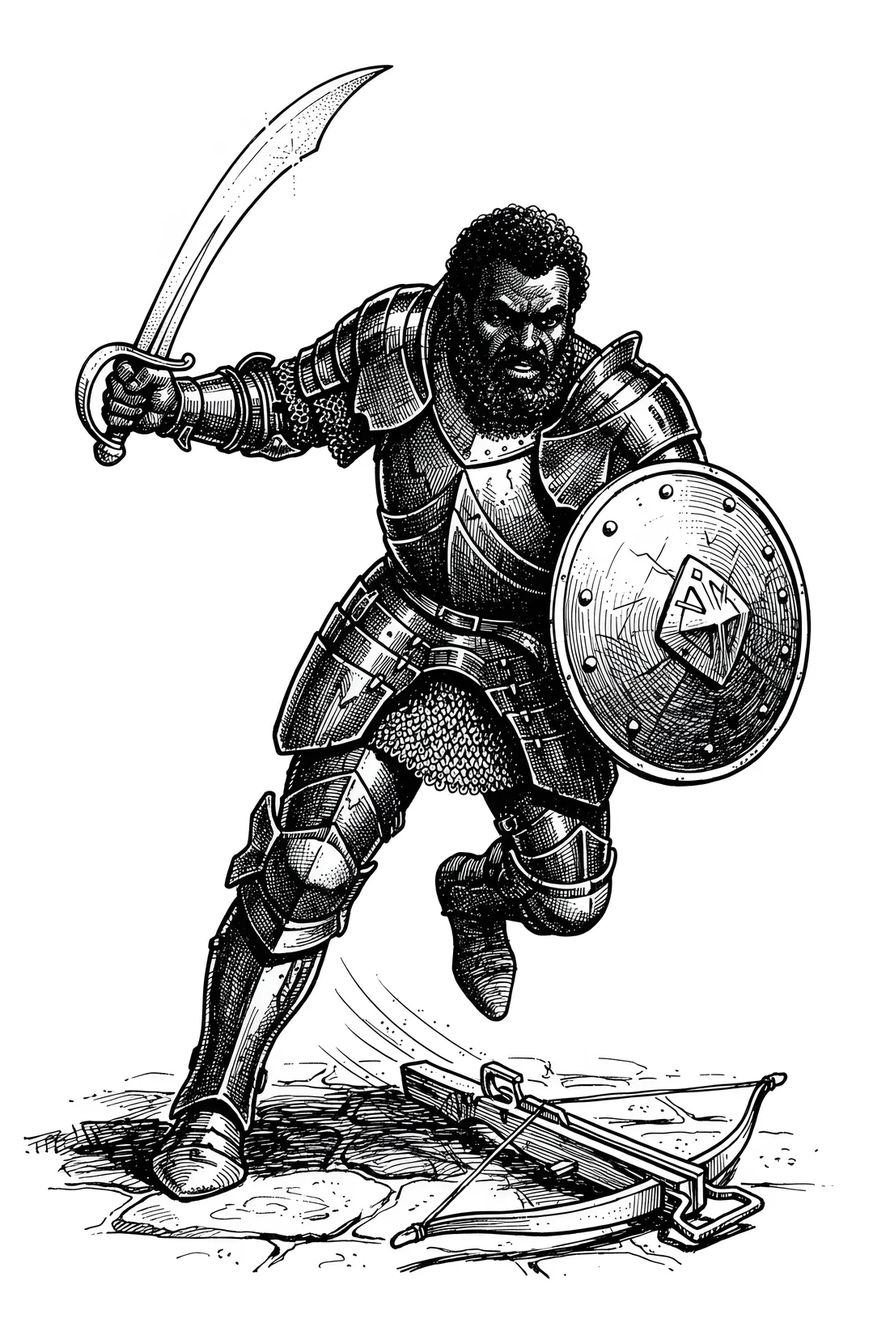
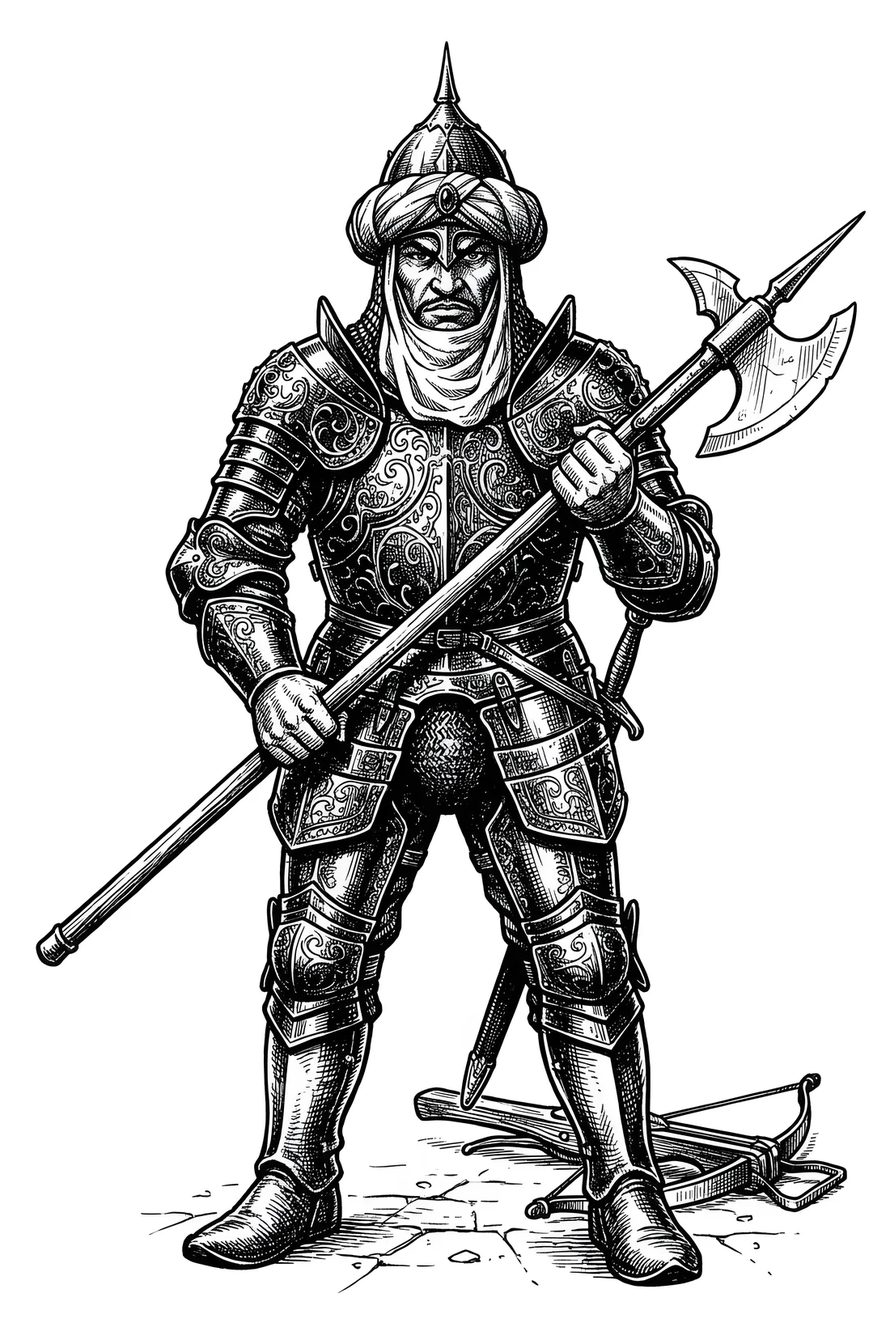
Book 4's guards: new pictures; proposals from the books only, sheet quotes only what describes
- Book 4's tunnel guards and the six bridge guards: the owner's choices from the proposal sheet
  (new AI-made pictures and Book 5's tower guard for the Tunnel Guard Leader), upscaled, pinned and
  credited; foe-about entries for Tunnel Guards 1 and 3 and Guards 1-6.
- Step 7 proposals take the books' own pictures only, never the web or Wikimedia Commons; the
  prompt's reference pictures are the picture now, every candidate, then the agent's pick (ADR 0008).
- The proposal sheet quotes only sections where the enemy is fought or described; the check refuses
  a listed section with nothing marked and a phrase of only its name.

diff --git a/tools/admin/prompts.js b/tools/admin/prompts.js
@@ -15,9 +15,9 @@ const DONE = (b, step) => `When the step is finished, run \`python tools/book_st
 // proposal carries for a generated picture, and the abouts
 // gather does the looking up (each run used to rediscover the files at great cost), so the prompt need not
 // spell out where to search
-const PIC_ORDER = (b) => `Follow docs/reference/items.md, "Fight pictures", for the order (the fight's own picture; this book's same creature; another book's; a stand-in; ADR 0008); this brief covers the rest, so no need to read that page through. Start each enemy with \`python tools/plates_proposals.py gather ${b.code} "<name>" --also=<its kind and what else the text calls it> --text\`: one call gives its fights, its picture now, what I settled before, the foe-about entries, illustrations and plates.json entries of its kind in every book (with what each shows), the sections naming it and those around its fights, with their text. Work from that; search further only for what it cannot know.`;
-const PIC_UNDRAWN = `A creature particular to Lone Wolf that no book pictures (a Nad-jaguz, not a bear or a guard): no stand-in and no web search; propose it with no candidates (I generate it from the sheet's prompt), name it in the report, and make its foe-about.json entry say what it looks like and the moment it is fought. A web stand-in is for ordinary things only: animals, plain humans, a door.`;
-const PIC_DESCRIBE = `Each entry also carries what I need to generate a picture: from the gathered sections (where it is first seen, fought, killed or opened, and what is compared to it; add --also words and gather again if the text calls it something else), write "sections"; "describe", in each, the exact phrases of the sentences that describe it; "refs", pictures of it or its surroundings, small ones too; and "prompt", every detail of its look (size, build, skin or material, head, eyes, mouth, limbs, gear, marks, setting) and the moment it is fought, in your own words. Never a colour: a fight picture is an ink drawing, so say it in tone and texture, even where the book names a colour. If the wiki refuses a fetch, go on without it.`;
+const PIC_ORDER = (b) => `Follow docs/reference/items.md, "Fight pictures", for the order (the fight's own picture; this book's same creature; another book's; ADR 0008). Candidates are the books' own pictures only: no web search, no Wikimedia Commons; this brief covers the rest, so no need to read that page through. Start each enemy with \`python tools/plates_proposals.py gather ${b.code} "<name>" --also=<its kind and what else the text calls it> --text\`: one call gives its fights, its picture now, what I settled before, the foe-about entries, illustrations and plates.json entries of its kind in every book (with what each shows), the sections naming it and those around its fights, with their text. Work from that; search further only for what it cannot know.`;
+const PIC_UNDRAWN = `An enemy that no book's picture shows well (a Nad-jaguz, or a bear no book draws): no stand-in from the web; propose it with no candidates (I generate it from the sheet's prompt), name it in the report, and make its foe-about.json entry say what it looks like and the moment it is fought.`;
+const PIC_DESCRIBE = `Each entry also carries what I need to generate a picture: from the gathered sections (where it is first seen, fought, killed or opened, and what is compared to it; add --also words and gather again if the text calls it something else), write "sections", only those that describe it or its fight (the sheet shows no other; a section that only names it, "the guard", is no context, "the burly guard" is); "describe", in each, the exact phrases of the sentences that describe it, with the describing words in them, never its bare name; "refs", a good pick of the books' pictures of it or its surroundings, small ones too, the one it shows now first (the sheet adds the candidates after it); and "prompt", every detail of its look (size, build, skin or material, head, eyes, mouth, limbs, gear, marks, setting) and the moment it is fought, in your own words. Never a colour: a fight picture is an ink drawing, so say it in tone and texture, even where the book names a colour. If the wiki refuses a fetch, go on without it.`;
 const PIC_ABOUT = `Every picture and every enemy should say what it is (ADR 0008), in our own words: each of the book's illustrations (small ones too) and each picture its fights use an "about" in about/ill-about.json (who or what, at which moment, as the book has it: read its section and those around it; else the wiki; a stand-in says what it stands for), and each kind of enemy an entry in about/foe-about.json under the book's code (what it is by the book, whatever its picture, where it is met and fought), which the picture sheet shows. These files are committed, so write in your own words, never the book's: python tools/about_check.py must pass (ADR 0042). Re-run python tools/ill_index.py; --missing lists the pictures without.`;
 
 export const PROMPTS = {
@@ -76,7 +76,7 @@ Task: docs/book-checklist.md step 7, a fight picture for every enemy.
 - Then judge every enemy of the book, not only the draft's: list the picture each kind shows now (its own, the importer's, a library entry, a draft) and check it against what the enemy is, by its section and its foe-about.json entry. A picture matches only if it shows that creature or that kind of foe: a Death Knight under a picture of some guard does not; Drakkarim take Drakkarim, whatever the name says ("Armoury Guards" who are Drakkarim); a picture "1 link before the fight" or a match by name can be the wrong creature. A fight's own picture, the one in its section, is drawn for that fight and wins all but very rarely: leave it unless it plainly shows something else. Replace what does not match; leave the draft field on draft picks you keep, as the sheet's Adjust is mine.
 - ${PIC_ORDER(b)}
 - ${PIC_UNDRAWN}
-- Show me candidates on the proposal sheet, not in chat (ADR 0008): for each enemy whose picture you change, choose or cannot settle, an entry in data/projectaon/${b.code}/plate-proposals.json (its format is in tools/plates_proposals.py's docstring): the enemy's name as book.js has it, your note on why, its candidate pictures (on disk by path, with a crop where one figure is wanted; on the web by thumbnail and page, downloading nothing) and your pick. The sheet shows what each enemy has now first, every candidate as it would look in a fight, its foe-about entry and the book's text, each section folded with the sentences that describe the enemy highlighted; I pick there. Look at each candidate yourself before proposing it.
+- Show me candidates on the proposal sheet, not in chat (ADR 0008): for each enemy whose picture you change, choose or cannot settle, an entry in data/projectaon/${b.code}/plate-proposals.json (its format is in tools/plates_proposals.py's docstring): the enemy's name as book.js has it, your note on why, its candidate pictures (the books' pictures on disk by path, with a crop where one figure is wanted) and your pick. The sheet shows what each enemy has now first, every candidate as it would look in a fight, its foe-about entry and the book's text, each section folded with the sentences that describe the enemy highlighted; I pick there. Look at each candidate yourself before proposing it.
 - ${PIC_DESCRIBE} Run python tools/plates_proposals.py check ${b.code} until it is clean (it also rejects a prompt that repeats the book's wording or names a colour), then tell me to open it: the dashboard, Book ${b.n}'s step 7, \"Open proposals\". I settle each row there (Use this, or Keep as is) and Finish the round, which moves the file to plate-proposals.done.json. Before proposing, read that file if it is there: do not propose again an enemy I settled (chosen or kept) unless its picture has since changed or I ask; a row I left open may come back. Start each round's file afresh, with only what waits for me.
 - ${PIC_ABOUT}
 - plates.json is read at play time, so no re-import is needed; the picture sheet shows every enemy as the player would. Open it inside the dashboard, http://localhost:8766/tools/admin/: Book ${b.n}'s row, step 7, "Open picture sheet" (fights.html at its own address shows nothing). Marking step 7 done is mine, after I have looked at that sheet: do not mark it.
@@ -124,7 +124,7 @@ Task: docs/book-checklist.md step 7, ${one
 - ${PIC_ORDER(b)}
 - ${PIC_UNDRAWN}
 - Open only the pictures you might propose (their "about" rules out the rest), and propose the few that show ${it} best, the best first; not the one ${it} shows now (the sheet puts that first). If none fits, say so in the note and leave the candidates empty.
-- Write ${one ? 'this enemy\'s row' : 'a row for each of them'} in data/projectaon/${b.code}/plate-proposals.json (format: tools/plates_proposals.py's docstring; ADR 0008): ${its} name as book.js has it, your note, candidates (on disk by path, with a crop where one figure is wanted; on the web by thumbnail and page, downloading nothing) and your pick. Keep any other rows; propose ${one ? 'it' : 'them'} even if I settled ${one ? 'it' : 'them'} before, since I ask. Do not change plates.json: my choice on the sheet does.
+- Write ${one ? 'this enemy\'s row' : 'a row for each of them'} in data/projectaon/${b.code}/plate-proposals.json (format: tools/plates_proposals.py's docstring; ADR 0008): ${its} name as book.js has it, your note, candidates (the books' pictures on disk by path, with a crop where one figure is wanted) and your pick. Keep any other rows; propose ${one ? 'it' : 'them'} even if I settled ${one ? 'it' : 'them'} before, since I ask. Do not change plates.json: my choice on the sheet does.
 - ${PIC_DESCRIBE}
 - If ${its} foe-about.json entry is missing or thin, write it in our own words (python tools/about_check.py must pass; ADR 0042), and an "about" for any picture you propose that has none (re-run python tools/ill_index.py).
 Run python tools/plates_proposals.py check ${b.code} until it is clean, then tell me to open it: the dashboard, Book ${b.n}'s step 7, "Open proposals" (or reload the sheet if it is open). Do not mark step 7.

diff --git a/tools/admin/proposals.html b/tools/admin/proposals.html
@@ -142,14 +142,15 @@ const about = (name) => {
   return mine[name] || Object.entries(mine).find(([n]) => kindOf(n) === kindOf(name))?.[1] || '';
 };
 
-/* What the book says: every section it is fought in, named in (or found by the agent's words), pointed to or described
-   in, in order, each folded to one line to open as needed. Inside, the sentences the agent marked as describing it
+/* What the book says: every section it is fought in or the agent marked as describing it or its fight, in order,
+   each folded to one line to open as needed; one that only names it is left out. Inside, the sentences the agent marked as describing it
    (`describe`: {section: [phrases]}) are highlighted whole, and its name is marked wherever it appears. */
 function bookText(e) {
   const re = finder(e), fought = new Set(fightsOf(e.name)), listed = new Set((e.sections || []).map(String));
   const desc = e.describe || {};
-  const hit = (t) => { re.lastIndex = 0; return re.test(t); };
-  const ids = Object.keys(book.sections).filter((id) => fought.has(id) || listed.has(id) || desc[id] || (book.sections[id].text || []).some(hit))
+  // only where it is fought or something describes it (the owner, 2026-10-28): a bare "guard" is no context
+  const said = (id) => (desc[id] || []).some((ph) => (book.sections[id].text || []).join(' ').toLowerCase().includes(ph.toLowerCase()));
+  const ids = Object.keys(book.sections).filter((id) => fought.has(id) || said(id))
     .sort((a, b) => (+a || 0) - (+b || 0));
   const mark = (t) => esc(t).replace(re, '<mark>$1</mark>');
   return ids.map((id) => {
@@ -162,10 +163,9 @@ function bookText(e) {
       for (const [a, b] of spans) out += mark(p.slice(at, a)) + `<span class="desc">${mark(p.slice(a, b))}</span>`, at = b;
       return `<p>${out + mark(p.slice(at))}</p>`;
     }).join('');
-    const why = [fought.has(id) && 'fought here', listed.has(id) && 'the agent points here', !fought.has(id) && !listed.has(id) && hit(ps.join(' ')) && 'named here']
-      .filter(Boolean).join(', ') || 'described here';
+    const why = [fought.has(id) && 'fought here', listed.has(id) && 'the agent points here'].filter(Boolean).join(', ') || 'described here';
     return `<details><summary><b>${esc(id)}</b> ${why}${found ? ` <span class="n">${found} description${found > 1 ? 's' : ''}</span>` : ''}</summary>${body}</details>`;
-  }).join('') || '<p class="far">The book does not name it in any section.</p>';
+  }).join('') || '<p class="far">No section describes it.</p>';
 }
 /* The [start, end) of each whole sentence of p holding one of the phrases, merged, in order. A sentence ends at
    . ! or ? (and a closing quote) followed by a space or the end. */
@@ -201,6 +201,9 @@ function nowOf(e) {  // what the player shows at its first fight
   const i = s.combat.enemies.findIndex((x) => x.name === e.name);
   return pickPlate(s.combat.enemies[i], book, plates, null, `${id}/${i}`);
 }
+/* The pictures to attach to the generator: what it shows now and every candidate on disk come first, as the
+   owner wants the proposals themselves followed too, then the agent's refs; each once. */
+const refsOf = (e, now) => [...new Set([now?.src, ...(e.candidates || []).map((c) => c.src), ...(e.refs || [])].filter(Boolean))];
 const ixAbout = (src) => index[src.replace(/^data\/projectaon\//, '')]?.about || index[src]?.about || '';
 
 const openRows = () => data.enemies.filter((e) => !e.decided).length;
@@ -239,8 +242,8 @@ function render() {
         <div class="tools"><button data-keep="${fi}" title="Settle this row with the picture it has now (or none, for later)">Keep as is</button></div></div>${cands}${aiCards(fi)}</div>
       <details class="prompt"${(e.candidates || []).length ? '' : ' open'}><summary>Prompt for an image generator</summary>
         <textarea readonly id="pr${fi}">${esc(promptOf(e))}</textarea>
-        <div class="row"><button data-copy="${fi}">Copy prompt</button><span>attach the references below and any candidates you want followed; paste the result here (Ctrl+V)</span></div>
-        ${(e.refs || []).length ? `<div class="refs">${e.refs.map((r) => `<a href="/${esc(r)}" target="_blank" rel="noopener" title="${esc(ixAbout(r))}"><img src="/${esc(r)}" alt="" loading="lazy">${esc(r.split('/').slice(-2).join('/'))}</a>`).join('')}</div>` : ''}</details>
+        <div class="row"><button data-copy="${fi}">Copy prompt</button><span>attach the references below (the picture now and the candidates first, then the agent's); paste the result here (Ctrl+V)</span></div>
+        ${refsOf(e, now).length ? `<div class="refs">${refsOf(e, now).map((r) => `<a href="/${esc(r)}" target="_blank" rel="noopener" title="${esc(ixAbout(r))}"><img src="/${esc(r)}" alt="" loading="lazy">${esc(r.split('/').slice(-2).join('/'))}</a>`).join('')}</div>` : ''}</details>
       </div><div class="text">${bookText(e)}</div></section>`;
   }).join('') || '<p class="note">No proposals for this book (data/projectaon/' + esc(code) + '/plate-proposals.json).</p>';
   ink();

diff --git a/tools/plates_proposals.py b/tools/plates_proposals.py
@@ -15,22 +15,26 @@ book's text from book.js itself, so the file holds names, ids, paths and our own
     {"made": "2026-10-26", "enemies": [
       {"name": "Iron Gate",                 the enemy's name exactly as in book.js
        "note": "...",                       why these candidates, in our own words
-       "sections": [251],                   sections to quote beside those it is fought or named in
+       "sections": [251],                   sections that describe it or its fight, beside those it is fought in
+                                            (the sheet shows only these; each needs a "describe" phrase)
        "words": ["portal", "door"],         words that find it in the text where its name is not used
        "describe": {"251": ["lead-lined iron"]},   in each section, phrases (exact, any case) of the sentences
-                                            that describe it: the sheet highlights each whole sentence
+                                            that describe it: the sheet highlights each whole sentence; a phrase
+                                            of its bare name ("the guard", not "the burly guard") is refused
        "candidates": [
          {"src": "assets/plates/x.jpg", "crop": [x, y, w, h], "why": "..."},   a picture on disk
          {"web": "<thumbnail address>", "page": "<its page>", "licence": "CC0", "why": "..."}
-       ],
+       ],                                   (a web candidate is read for older rows only: the agent proposes
+                                            the books' own pictures, never the web or Wikimedia Commons)
        "pick": 0,                           the agent's choice (index into candidates), or none
        "prompt": "...",                     every detail the book (and the wiki) gives of what it looks like,
                                             but no colour (an ink drawing: tone and texture instead),
                                             and the moment it is fought, for the sheet's image-generator prompt
                                             (our own words: it is sent to the generator; never 8 of the book's
                                             in a row)
-       "refs": ["data/projectaon/19wb/small6.png"]}   pictures worth attaching to the generator beside the
-                                            candidates (any that show it or its surroundings, small ones too)
+       "refs": ["data/projectaon/19wb/small6.png"]}   a good pick of the books' pictures to attach to the
+                                            generator, the one it shows now first (any that show it or its
+                                            surroundings, small ones too); the sheet adds the candidates
     ]}
 
 The owner settles each row on the sheet, which writes it here: "decided": {"how": "chosen", "src": ...,
@@ -128,6 +132,19 @@ def _book(code):
     return json.loads(js[js.index('|| {}, ') + 7:js.rindex(');')])[code]
 
 
+# words that say nothing of what an enemy looks like: "the guard", "two guards" are its name, not a description
+_FILLER = set('a an the his her its their this that these those some one two three four five six seven eight nine ten of and'.split())
+
+
+def _words(text):
+    return {w[:-1] if len(w) > 3 and w.endswith('s') else w for w in re.findall(r"[a-z]+", text.lower())} - _FILLER
+
+
+def _name_words(name, words):
+    """The enemy's name and the agent's `words` for it, as single words, so a phrase made of nothing else is caught."""
+    return _words(' '.join([name, *words]))
+
+
 def problems(code):
     """What would leave a card wrong or empty on the sheet, one line each; [] if none."""
     if not os.path.isfile(path(code)):
@@ -142,9 +159,14 @@ def problems(code):
         n = e.get('name', '')
         if n not in names:
             out.append(f'{n!r}: not an enemy of {code} (use the name exactly as book.js has it)')
+        fought = {sid for sid, x in book['sections'].items() if any(f['name'] == n for f in x.get('combat', {}).get('enemies', []))}
+        marked = {sid for sid, ph in (e.get('describe') or {}).items() if ph}
         for s in e.get('sections', []):
             if str(s) not in book['sections']:
                 out.append(f'{n}: no section {s}')
+            elif str(s) not in fought and str(s) not in marked:  # the sheet shows only what describes it (the owner)
+                out.append(f'{n}: section {s} is listed but nothing there is marked as describing it')
+        bare = _name_words(n, e.get('words', []))
         cands = e.get('candidates', [])
         for i, c in enumerate(cands):
             if 'src' in c:
@@ -163,6 +185,8 @@ def problems(code):
                 continue
             text = ' '.join(book['sections'][sid].get('text', [])).lower()
             out += [f'{n}: section {sid} has no {ph!r} to highlight' for ph in phrases if ph.lower() not in text]
+            out += [f"{n}: section {sid}'s {ph!r} is only its name: mark the words that describe it"
+                    for ph in phrases if ph.lower() in text and not _words(ph) - bare]
         for r in e.get('refs', []):
             if not os.path.isfile(os.path.join(ROOT, *str(r).split('/'))):
                 out.append(f'{n}: reference {r} is not on disk')

diff --git a/tests/py/test_plates_proposals.py b/tests/py/test_plates_proposals.py
@@ -47,7 +47,7 @@ def test_a_sound_file_has_no_problems(tree):
         {'name': 'Iron Gate', 'note': 'A door.', 'candidates': [
             {'src': 'assets/plates/gate.jpg', 'why': 'an iron door'},
             {'web': 'https://example.org/thumb.jpg', 'page': 'https://example.org/gate', 'licence': 'CC0'}], 'pick': 1},
-        {'name': 'Mire Toad', 'sections': [1], 'refs': [f'data/projectaon/{CODE}/ill1.png'], 'candidates': [{'src': f'data/projectaon/{CODE}/ill1.png', 'crop': [0, 0, .5, 1]}]},
+        {'name': 'Mire Toad', 'sections': [1], 'describe': {'1': ['a start']}, 'refs': [f'data/projectaon/{CODE}/ill1.png'], 'candidates': [{'src': f'data/projectaon/{CODE}/ill1.png', 'crop': [0, 0, .5, 1]}]},
     ])
     assert pp.problems(CODE) == []
 
@@ -95,6 +95,26 @@ def test_the_sentences_marked_as_describing_it_are_in_their_section(tree):
     tree.book()
     tree.proposals([{'name': 'Mire Toad', 'candidates': [], 'describe': {'2': ['a bog'], '1': ['a bog'], '7': ['x']}}])
     assert pp.problems(CODE) == ["Mire Toad: section 1 has no 'a bog' to highlight", 'Mire Toad: no section 7']
+
+
+def test_a_section_is_shown_only_for_what_describes_it_not_its_bare_name(tree):
+    """The sheet shows a section only where it describes the enemy or its fight (the owner, 2026-10-28): "the
+    burly guard" is context for a picture, "guard" alone is not. A section the agent lists must carry a phrase
+    that describes it, and a phrase that is only the enemy's name (or its `words`) describes nothing."""
+    tree.book()
+    tree.proposals([{'name': 'Mire Toad', 'words': ['frog'], 'candidates': [], 'sections': [1, 3],
+                     'describe': {'2': ['a bog'], '3': ['a gate'], '1': ['a start']}}])
+    assert pp.problems(CODE) == []
+    tree.proposals([{'name': 'Mire Toad', 'words': ['frog'], 'candidates': [], 'sections': [1, 3],
+                     'describe': {'2': ['A bog'], '1': ['A start']}}])
+    assert pp.problems(CODE) == ['Mire Toad: section 3 is listed but nothing there is marked as describing it']
+    secs = {'1': {'text': ['The toad waits.']}, '2': {'text': ['Two frogs and a huge warty toad.'], 'combat': {'enemies': [{'name': 'Mire Toad'}]}}}
+    tree.file(f'data/projectaon/{CODE}/book.js', '(window.LW = window.LW || {}).BOOKS = Object.assign(window.LW.BOOKS || {}, '
+              + json.dumps({CODE: {'id': CODE, 'sections': secs}}) + ');')
+    tree.proposals([{'name': 'Mire Toad', 'words': ['frog'], 'candidates': [],
+                     'describe': {'1': ['the toad'], '2': ['two frogs', 'huge warty toad']}}])
+    assert pp.problems(CODE) == ["Mire Toad: section 1's 'the toad' is only its name: mark the words that describe it",
+                                 "Mire Toad: section 2's 'two frogs' is only its name: mark the words that describe it"]
 
 
 def test_a_prompt_names_no_colour(tree, monkeypatch):

diff --git a/docs/reference/items.md b/docs/reference/items.md
@@ -378,12 +378,15 @@ settled before, the `foe-about.json` entries, index pictures and `plates.json` e
 (this book first, then the nearest), the sections naming it or the `--also` words and those leading into and out
 of its fights, and with `--text` those sections' text for the agent's reading; the step 7 prompts start from it. Each enemy there shows what it has now, every candidate inked as in a fight (a web one by its
 thumbnail, fetched only when chosen), the agent's note and pick, its `foe-about.json` entry, and the book's
-text where it is fought, named, pointed to or described (read from `book.js` in the page), each section
+text where it is fought or where the agent marked something describing it or its fight (the owner, 2026-10-28: a
+section that only names it, "the guard", is no context; "the burly guard" is; `check` refuses a listed section
+with no `describe` phrase, and a phrase of only its name or `words`) (read from `book.js` in the page), each section
 folded, with the sentences the agent marked as describing it (`describe`) highlighted whole; Use this saves the choice
 as the owner's picture, as the picture sheet's Stand-in... or By address... would. Each row also has a
 **prompt** for an image generator: the agent's fullest description of the enemy, gathered from every section
 that describes it (where it is first seen, fought, killed or opened, and what is compared to it) and the wiki,
-and the moment it is fought, with the pictures worth attaching shown beneath (`refs`). No prompt names a colour
+and the moment it is fought, with the pictures worth attaching shown beneath: the picture it shows now and every candidate on disk,
+then the agent's `refs` (`refsOf()` in `tools/admin/proposals.html`). No prompt names a colour
 (a fight picture is an ink drawing; the owner, 2026-10-26): `platePrompt()` takes every colour word out of the
 description it is given, foe-about entries included, and the check rejects one in the agent's `prompt`
 (the file's `prompt`, our own words, checked against the book's) in the picture sheet's style, asking it to
@@ -396,11 +399,13 @@ git-ignored `art/plates/` with no link (ADR 0042). The owner settles each row (U
 **Reopen** undoes it), written into the file as `decided`, and **Finish** ends the round: the file is added to
 `plate-proposals.done.json` beside it (every round, each with the date it finished) and goes, so the
 dashboard's button goes too. The next round's agent reads the done file and does not propose again what
-the owner settled. A creature particular to Lone Wolf that no book pictures gets
-no stand-in: the agent names it in its report and lists it on the proposal sheet with no candidates, and the
+the owner settled. The agent's candidates are the books' own pictures only (the owner, 2026-10-28): no web
+search, Wikimedia Commons included, and no library stand-in. An enemy that no book's picture shows well gets
+none: the agent names it in its report and lists it on the proposal sheet with no candidates, and the
 owner generates its picture from that sheet's prompt (or the picture sheet's **Prompt** button, from its
-`foe-about.json` entry);
-a stand-in found by searching is for ordinary things (animals, plain humans, a door).
+`foe-about.json` entry). Its `refs` are a good pick of the books' pictures of it or its surroundings, the one it
+shows now first; the sheet adds the candidates after that. The stand-in step below is the owner's own, on the
+picture sheet.
 
 Where a fight's picture comes from, first that applies (ADR 0008):
 

diff --git a/docs/adr/0008-fight-pictures.md b/docs/adr/0008-fight-pictures.md
@@ -2,7 +2,7 @@
 
 - Status: Accepted
 - Date: 2026-10-01 (shown whole); varied humans 2026-10-09; pinned 2026-10-11; source order 2026-10-14
-- Amended: 2026-10-27
+- Amended: 2026-10-28
 
 ## Context
 
@@ -33,6 +33,14 @@ the very same creature. The owner set the order.
   4. A stand-in: the owner's `art/plates/` pictures, the library in `assets/plates/`, or a picture
      found by searching, for ordinary things (animals, plain humans, a door). A creature particular to
      Lone Wolf that no book pictures takes none: the owner generates its picture from a prompt.
+
+  **The agent's proposals** (step 7's proposal sheet) take candidates from the books' own pictures
+  only: no web search, Wikimedia Commons included, and no library stand-in (2026-10-28). An enemy no
+  book's picture shows well is proposed with no candidates, for the owner to generate from the
+  prompt. The prompt's reference pictures are the picture the enemy shows now, every candidate, then
+  a good pick of the books' pictures of it or its surroundings. The sheet quotes only the sections
+  where the enemy is fought or something describes it or its fight; one that only names it ("the
+  guard", not "the burly guard") is no context and is left out.
 
   A picture matches only if it shows that creature or that kind of foe (a Death Knight is not some
   guard). A picture the owner sets on the picture sheet is the owner's choice and stands whatever the order.
@@ -65,7 +73,8 @@ the very same creature. The owner set the order.
   a fight, what the enemy is (its `foe-about.json` entry) and the book's text where it is met and
   fought. The agent writes the book's `plate-proposals.json` and the owner picks on the dashboard's
   proposal sheet. Each enemy there carries the agent's fuller description as an image-generator
-  prompt (references attached by the owner), and a picture pasted on its row becomes a "from AI"
+  prompt (references attached by the owner: the picture it shows now and every candidate on disk,
+  then the agent's own `refs`), and a picture pasted on its row becomes a "from AI"
   candidate.
 - The picture sheet says once, at the top, whether the book is approved; only cards waiting for
   approval are marked (showing the new picture), with a filter to show only those.
@@ -124,3 +133,6 @@ the very same creature. The owner set the order.
 - 2026-10-26: candidates on the proposal sheet, each with an image-generator prompt; a pasted
   picture becomes a "from AI" candidate (was ruling R27).
 - 2026-10-27: ruling R27 merged into this record (owner).
+- 2026-10-28: the prompt's reference pictures include the picture now and every candidate; the
+  agent's proposals take the books' own pictures only, never the web or Wikimedia Commons; the sheet quotes only sections that describe the enemy or
+  its fight (owner).

diff --git a/docs/adr/README.md b/docs/adr/README.md
@@ -63,7 +63,7 @@ Changes list names what it took in.
 | # | Decision | Amended |
 |---|---|---|
 | [0004](0004-maps.md) | The book's own printed map only, upscaled by a Gemini repaint over names set in type (the map's `font.txt`), shown in sepia | 2026-10-21 |
-| [0008](0008-fight-pictures.md) | A fight's picture: its own, the same creature in this book, then another, then a stand-in; plain humans varied; shown whole; upscaled 2x; pinned once approved; candidates on the proposal sheet | 2026-10-27 |
+| [0008](0008-fight-pictures.md) | A fight's picture: its own, the same creature in this book, then another, then a stand-in; plain humans varied; shown whole; upscaled 2x; pinned once approved; candidates on the proposal sheet | 2026-10-28 |
 | [0038](0038-art-keeps-its-source-links.md) | Pictures added to `art/` keep their source link where there is one, so Setup can fetch them again | 2026-10-24 |
 | [0042](0042-what-of-a-book-is-committed.md) | The repository is public, with no licensed content; our descriptions (`about/`, never 8 of the book's words in a row) and AI-made fight pictures are committed; `book.js` is not, nor split | 2026-10-27 |
 | [0046](0046-stand-in-content-in-public.md) | What the public sees is stand-in content: the showcase, and the made-up demo book `99ember`, played on the PC only | 2026-10-27 |
